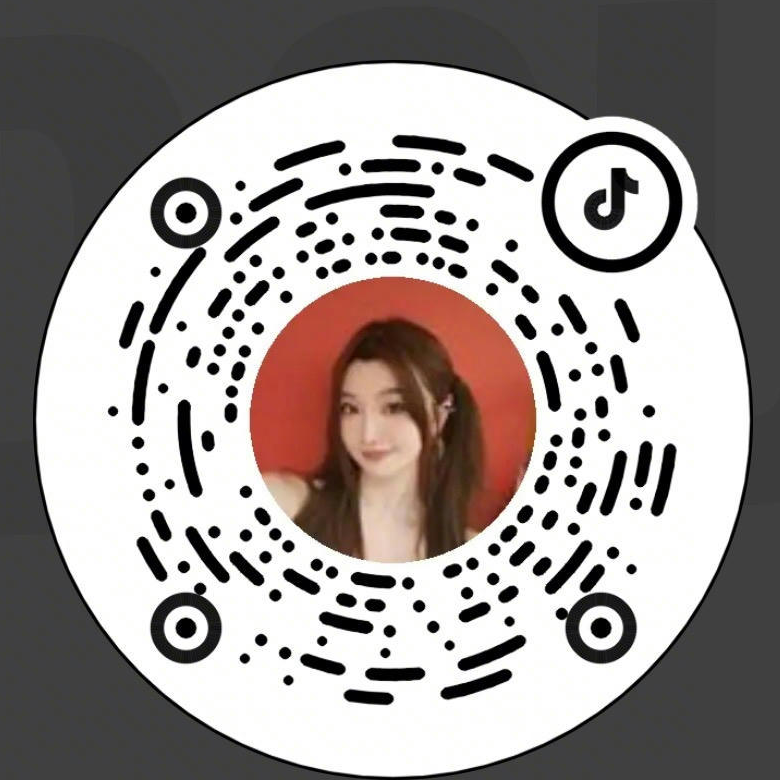
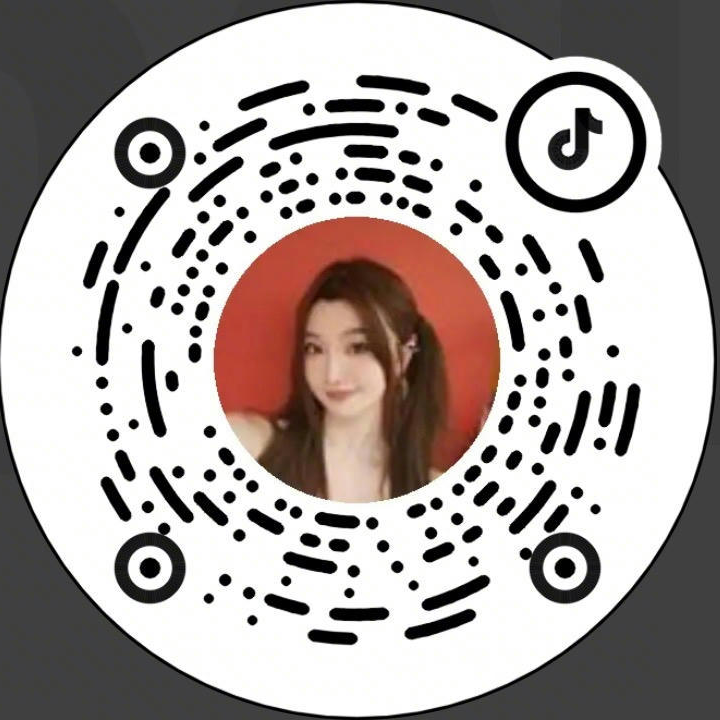
Align Douyin QR and simplify header label

diff --git a/src/components/Header.tsx b/src/components/Header.tsx
@@ -79,7 +79,7 @@ export function Header() {
   return (
     <header className="site-header" data-scrolled={scrolled} data-section={activeSection}>
       <a className="brand focus-ring" href="#top" onClick={closeMenu}>
-        JAMIE <span>/</span> AI NATIVE
+        JAMIE <span>/</span> AI
       </a>
 
       <nav className="desktop-nav" aria-label="主要导航">

diff --git a/src/data/content.ts b/src/data/content.ts
@@ -97,7 +97,7 @@ export type Note = {
 }
 
 export const profile = {
-  brand: 'AI NATIVE',
+  brand: 'AI',
   role: 'AI Product · Content · Operation',
   heroTitle: '我是Jamie，和AI一起做内容与互动体验',
   heroTitleLines: ['我是Jamie', '和AI一起做内容与互动体验'],

diff --git a/design-qa.md b/design-qa.md
@@ -82,3 +82,16 @@ Mobile at 390 × 844, saved outside the repository:
 - `npm run build` passed
 
 final result: passed
+
+## V9 targeted correction
+
+- Source visual truth: `/var/folders/gz/60fps4x97mn3m00yfqlqrkv40000gn/T/codex-clipboard-72dc2907-f7c5-4eb3-8e6c-e7a5943cdd23.png` at 648 × 712 px
+- Implementation captures: `/tmp/jamie-contact-v9/desktop-after.png` at 1440 × 1000 px and `/tmp/jamie-contact-v9/mobile-after.png` at 390 × 844 px, device scale factor 1
+- State: contact section settled after reveal animation
+- Full-view comparison: header lockup now reads `JAMIE / AI`; contact spacing, typography, colors, and card proportions are unchanged
+- Focused comparison: `/tmp/jamie-contact-v9/compare.png` places the marked source and corrected Douyin card together; the QR circle, white backing circle, and outer mask are now concentric
+- Iteration history: the original 780 × 780 asset retained uneven dark padding around an off-center white circle; the asset was recropped to its 720 × 720 circular content bounds and checked again at desktop and mobile widths
+- Typography, layout rhythm, color tokens, copy, and supplied QR image quality remain consistent with the existing contact design
+- No remaining P0, P1, or P2 findings
+
+final result: passed
